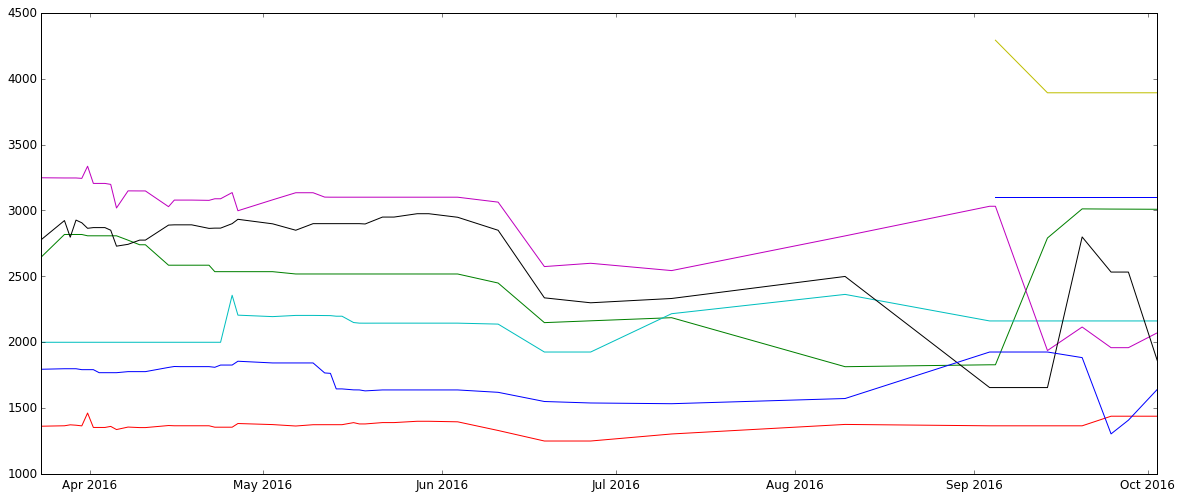
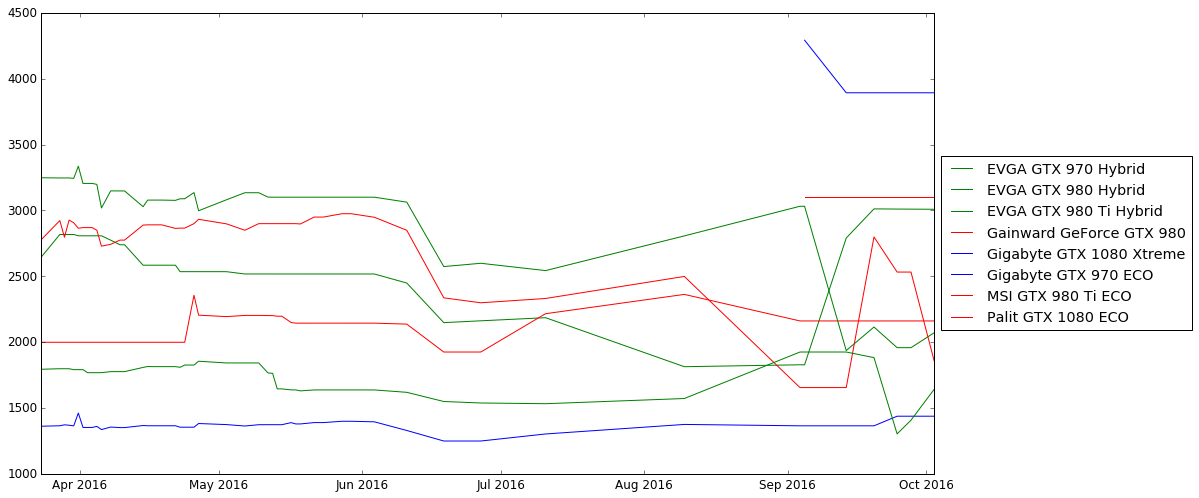
made the plot a bit prettier

diff --git a/plotter.py b/plotter.py
@@ -2,6 +2,7 @@ from config import use_old_data
 import matplotlib.pyplot as plt
 import datetime
 import pickle
+from itertools import cycle
 from pprint import pprint
 
 # todo: dodac legende
@@ -28,6 +29,7 @@ for date_key in input_dict.items():
             remapped_dict[product_entry[0]] = dict()
         remapped_dict.get(product_entry[0]).update({datetime.datetime.strptime(date_key[0], '%Y.%m.%d %H:%M:%S'): product_entry[1]})
 
+# todo: posortowac dane po nazwach przed przekazaniem do rysowania
 pprint(remapped_dict)
 
 # configure the plot
@@ -36,12 +38,32 @@ height = 600
 ppi = 72
 plt.figure(figsize=(width / ppi, height / ppi), dpi=ppi)
 
+# todo: dodac sensowne kolory
+colors = cycle([
+    (1, 0, 0, 1),  # red
+    'g',
+    'b'
+])
+
 # serve data to plotter
 for product_name in remapped_dict:
     raw_data = remapped_dict.get(product_name)
     sorted_data = sorted(raw_data.items())
     x, y = zip(*sorted_data)
-    plt.plot(x, y)
+    plt.plot(x, y, label=product_name, color=colors.next())
+
+
+# Shrink current axis by 20%
+ax = plt.subplot(111)
+box = ax.get_position()
+ax.set_position([box.x0, box.y0, box.width * 0.8, box.height])
+
+
+handles, labels = ax.get_legend_handles_labels()
+# sort both labels and handles by labels
+labels, handles = zip(*sorted(zip(labels, handles), key=lambda t: t[0]))
+ax.legend(handles=handles, labels=labels, loc='center left', bbox_to_anchor=(1, 0.5))
+
 
 # draw plot to file
 filename = 'plots/' + datetime.datetime.now().strftime('%Y-%m-%d') + '.png'
